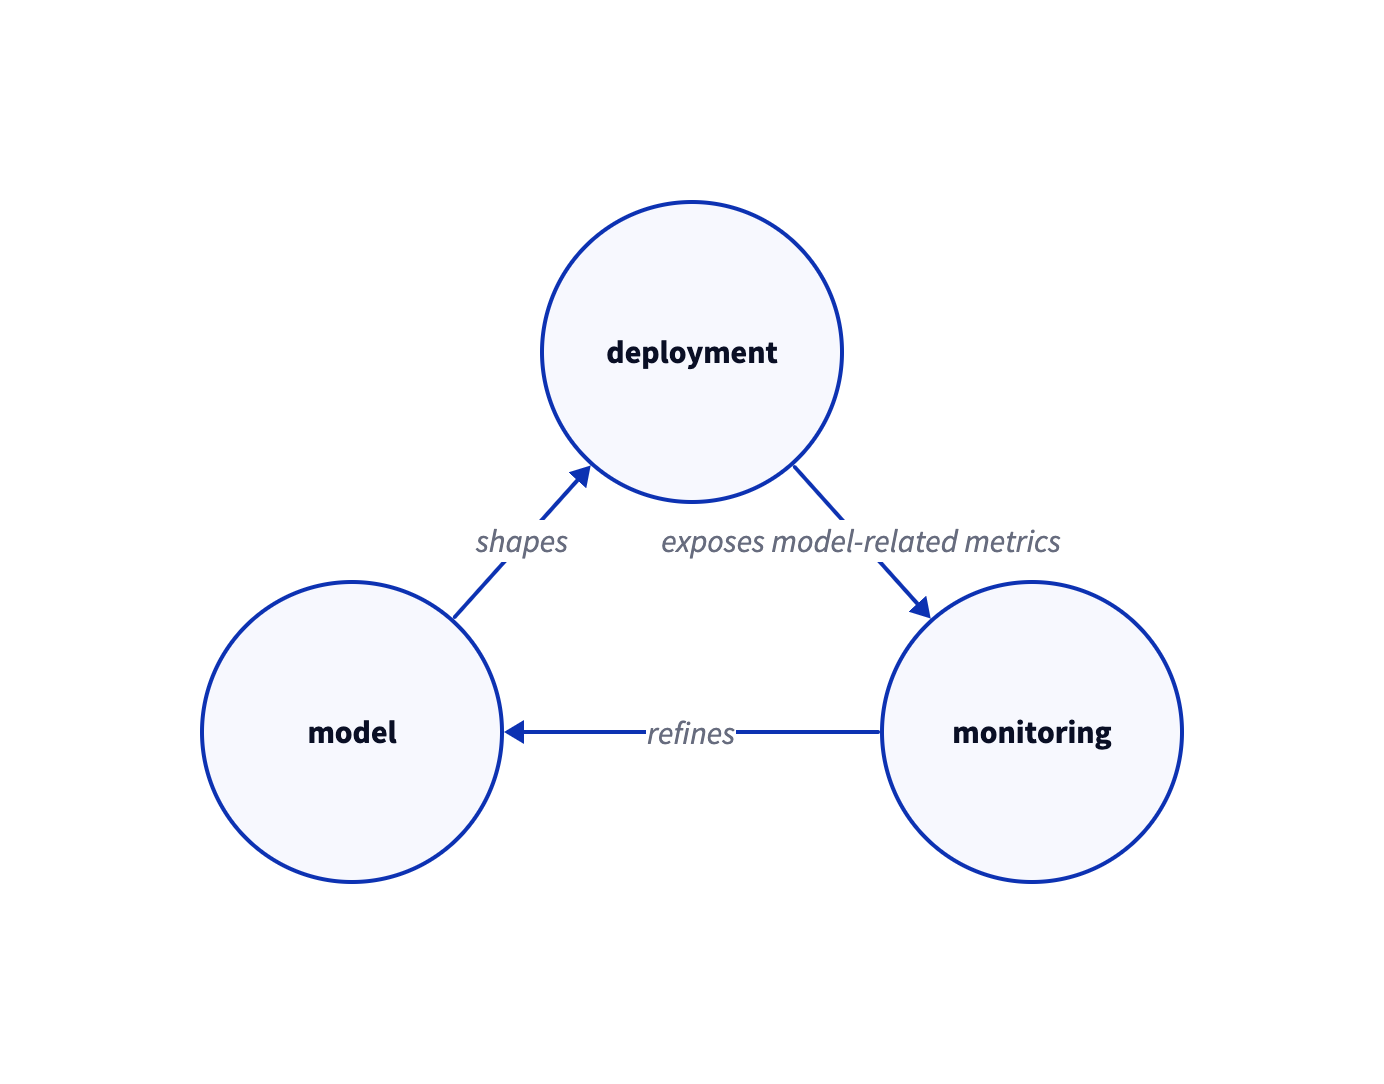
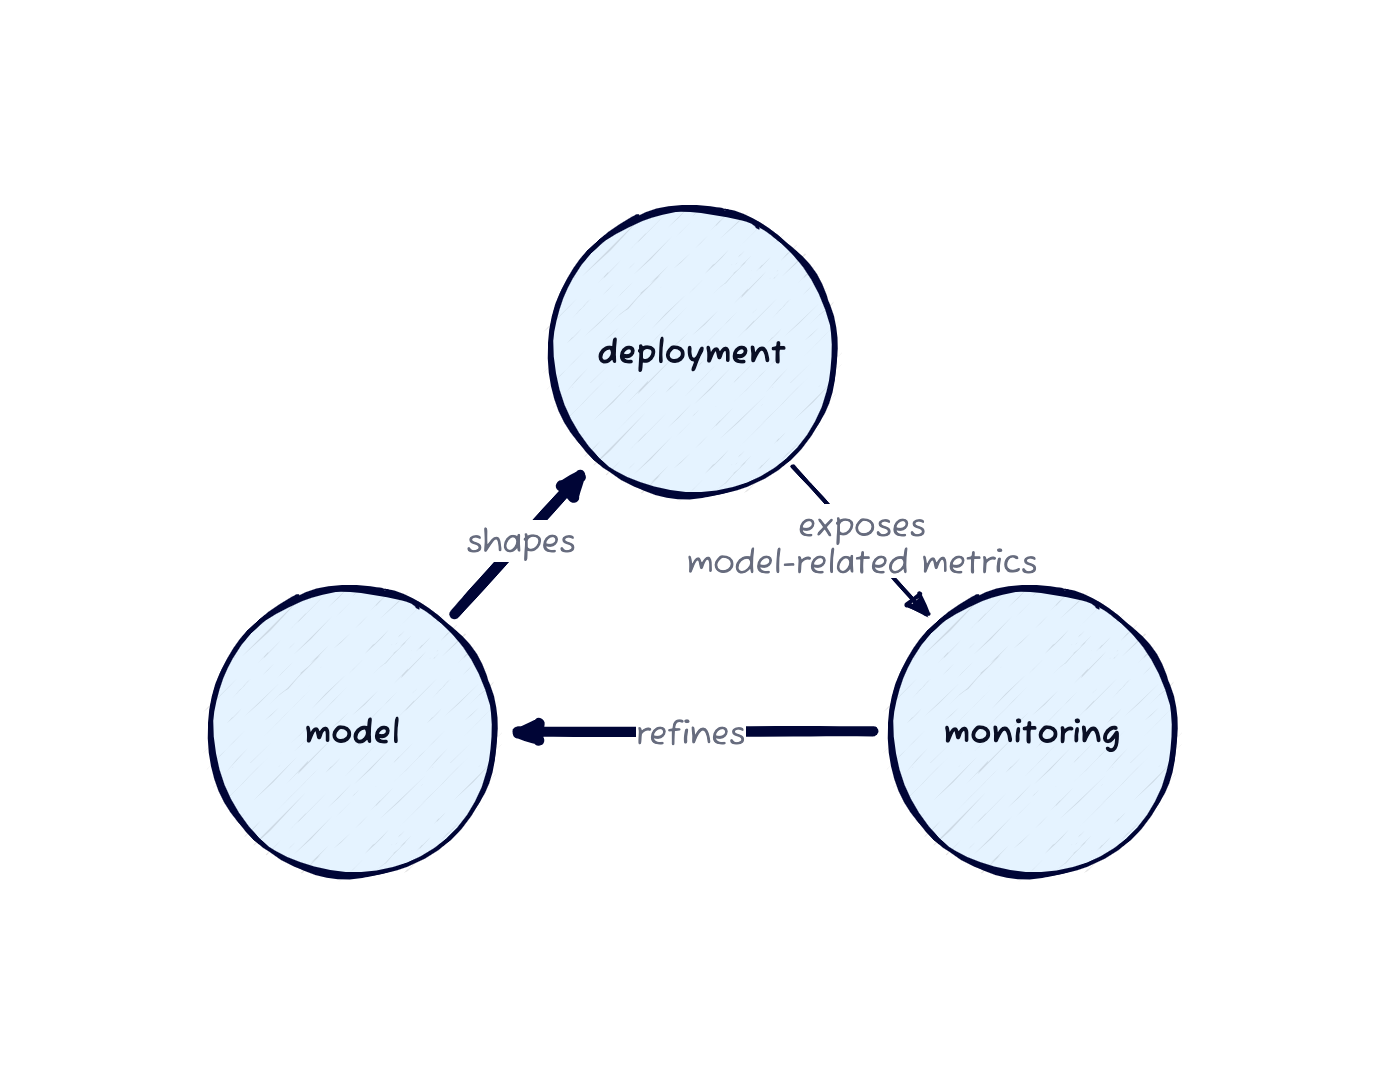
present: Complete the slides

diff --git a/present/static/styles.css b/present/static/styles.css
@@ -374,8 +374,8 @@ pre {
   border: 1px solid rgb(224, 224, 224);
 
   font-family: 'Droid Sans Mono', 'Courier New', monospace;
-  font-size: 18px;
-  line-height: 24px;
+  font-size: 24px;
+  line-height: 32px;
   letter-spacing: -1px;
 
   color: black;

diff --git a/present/umdd/envelope.html b/present/umdd/envelope.html
@@ -1,0 +1,2 @@
+<p style="margin-top: 250px;font-weight: bold;font-style: italic">...why are we doing this code?</p>
+<p style="margin-top: 200px;font-weight: bold;font-style: italic">It's easier on paper!</p>

diff --git a/present/static/slides.js b/present/static/slides.js
@@ -336,7 +336,7 @@ function enableSlideFrames(no) {
 }
 
 function disableFrame(frame) {
-  frame.src = 'about:blank';
+  // frame.src = 'about:blank';
 }
 
 function enableFrame(frame) {

diff --git a/present/umdd/generate.go b/present/umdd/generate.go
@@ -3,4 +3,4 @@ package umdd
 //go:generate d2 -t 1 --sketch case-vote.d2 case-vote.png
 //go:generate d2 -t 1 --sketch case-annotate.d2 case-annotate.png
 //go:generate d2 -t 1 --sketch case-fetch.d2 case-fetch.png
-//go:generate d2 -t 7 umdd-diagram.d2 umdd-diagram.png
+//go:generate d2 -t 7 --sketch umdd-diagram.d2 umdd-diagram.png
